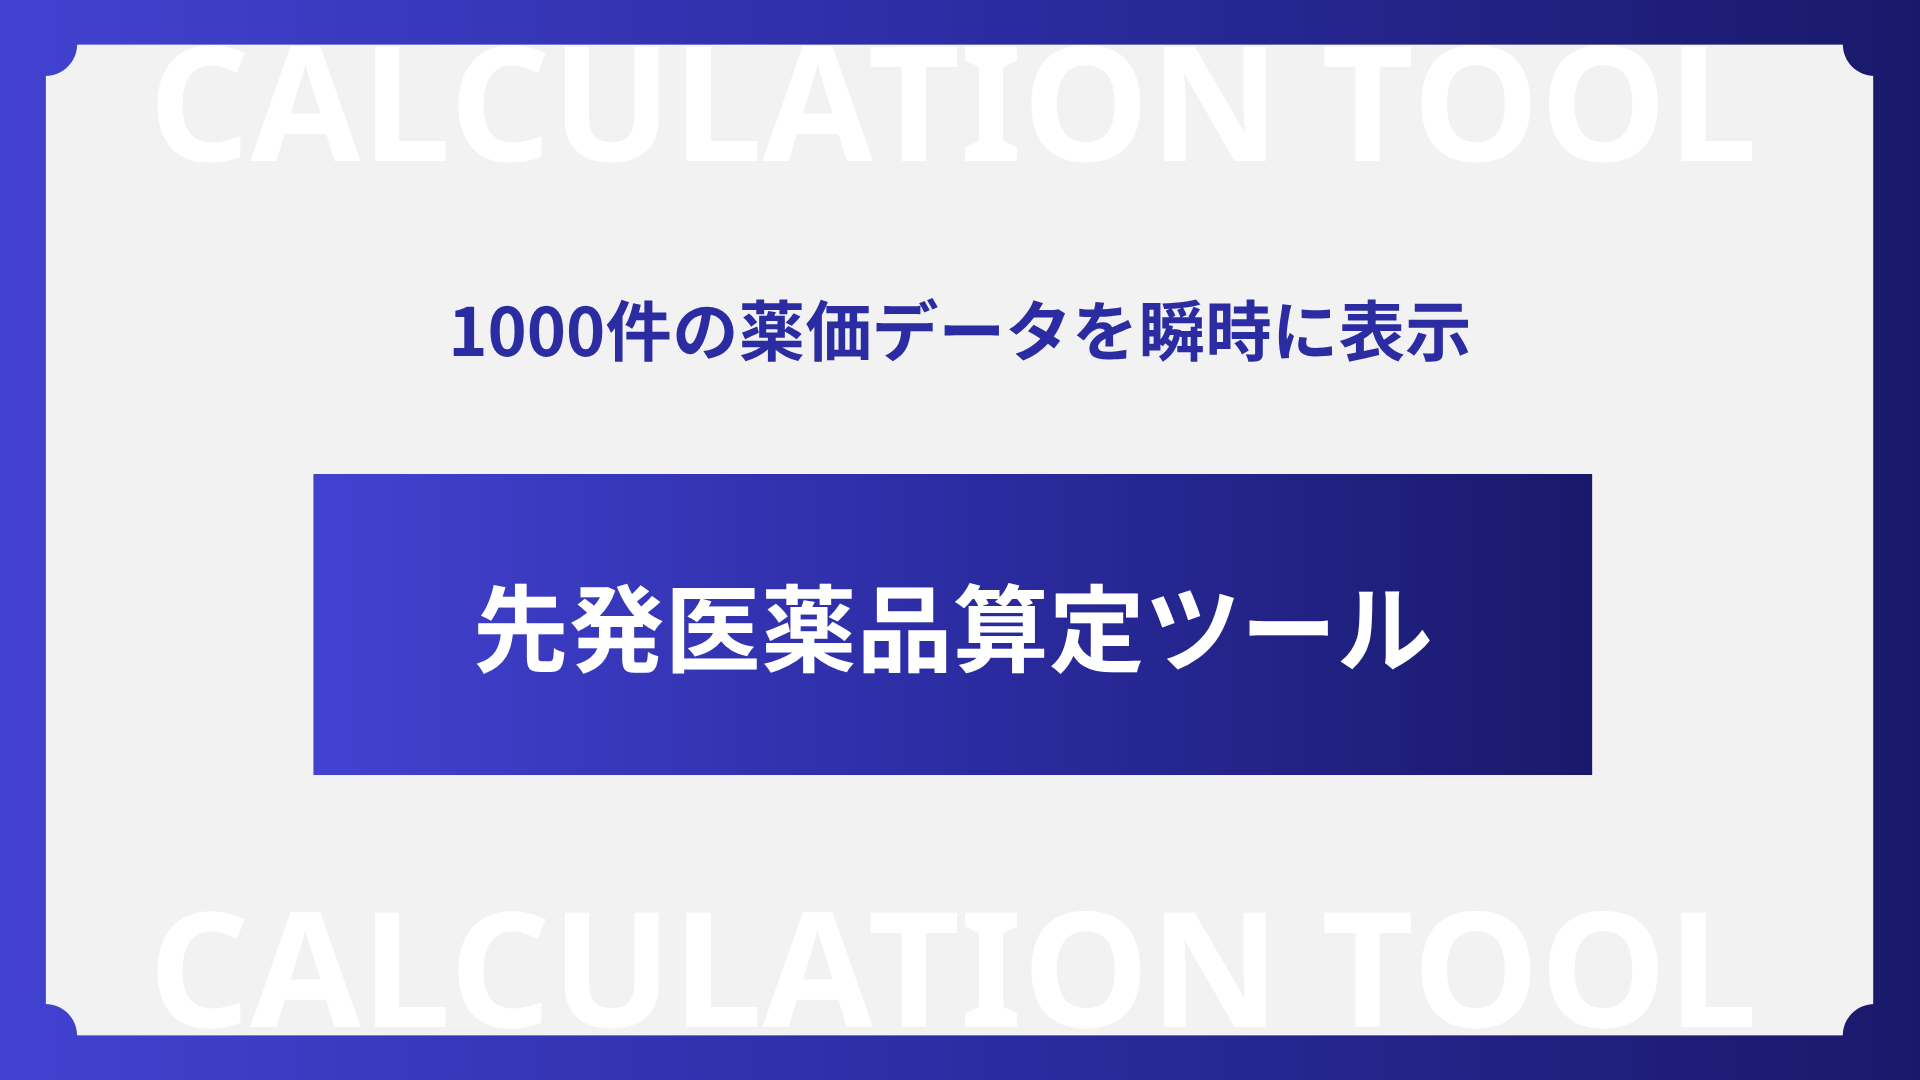
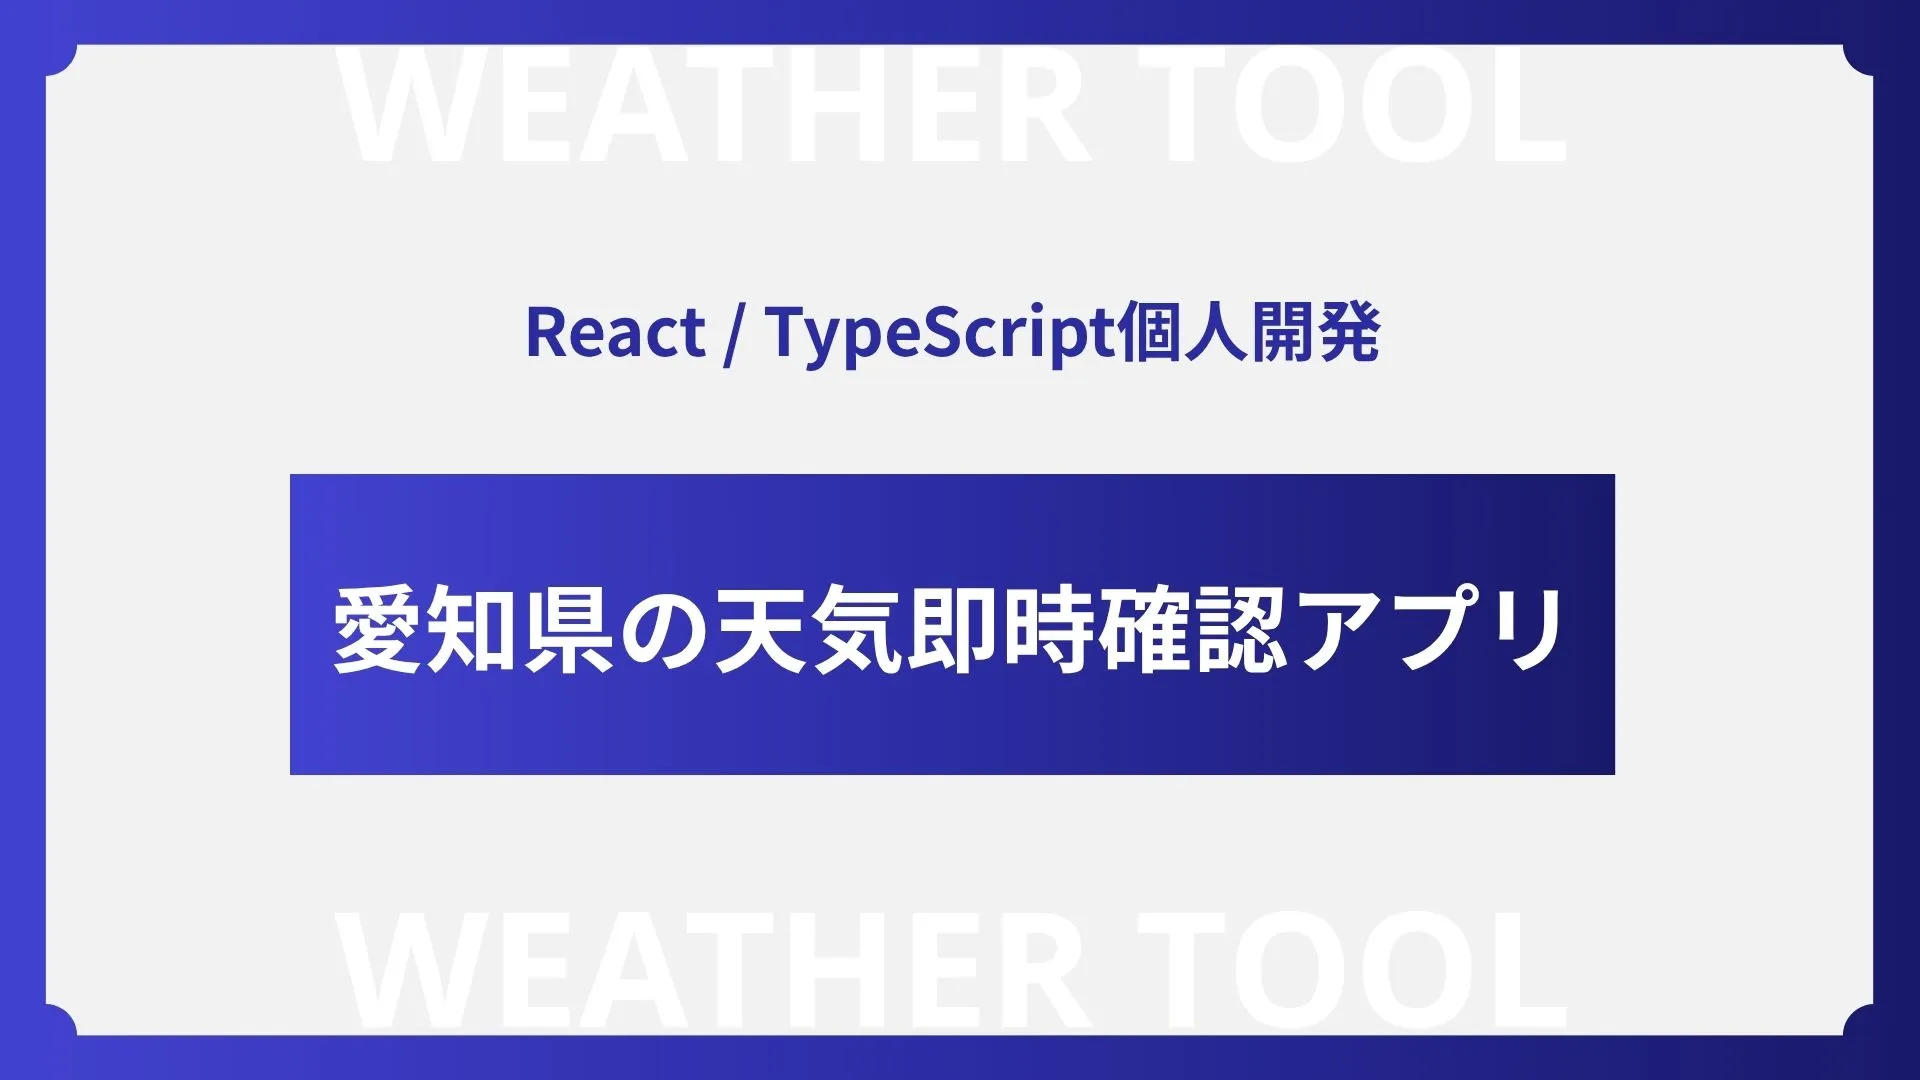
実績のサムネを更新

Changed region(s): [[0.125, 0.4278, 0.8438, 0.7333], [0.2188, 0.275, 0.7812, 0.3361]]

diff --git a/src/components/Works/WorksData.tsx b/src/components/Works/WorksData.tsx
@@ -2,6 +2,7 @@ import workImg01 from './images/1.webp'
 import workImg02 from './images/2.webp'
 import workImg03 from './images/3.webp'
 import workImg04 from './images/4.webp'
+import workImg05 from './images/5.webp'
 import mockImg01 from './images/mock01.jpg'
 import mockImg02 from './images/mock02.jpg'
 import mockImg03 from './images/mock03.jpg'
@@ -89,10 +90,10 @@ export const worksData :WorkItem[] =[
     task:'信頼感が求められる家庭教師のプロフィール紹介に加え、将来的なブログ運用やコンテンツ追加を見据えた拡張性の高いWEB基盤の構築が課題でした。あわせて、ターゲット層（保護者・生徒）へ確実にアプローチできるよう、検索エンジンに評価されやすいSEO内部対策の徹底を目指しました。',
     workOn: [
       '・将来の拡張性を見越したWordPress構造設計： 今後のブログ展開や記事・お知らせ投稿をスムーズに行えるよう、カスタム投稿タイプやカテゴリー設計を最適化。',
-      '・SEO内部対策とセマンティックなマークアップ： 適切なHTML構造化、メタタグの最適化、表示速度を意識した軽量なコーディングにより、検索エンジンへの最適化を徹底。'
+      '・SEO内部対策とセマンティックなマークアップ： 適切なHTML構造化、メタタグの最適化、表示速度を意識した軽量なコーディングにより、検索エンジンへの最適化を徹底。また、口コミを掲載することでCV率アップに貢献しました。'
     ],
     result: 'コンテンツの追加・管理が容易なCMS環境を構築し、今後の運用拡張に対応できるサイト基盤を完成させました。また、徹底したSEO対策により検索視認性を高め、集客・ブランディングに寄与するWEBサイトを実現しました。', 
-    img:workImg04,
+    img:workImg05,
     mockImg:mockImg05,
     link:'https://tutor-prodigy.com',
   },
